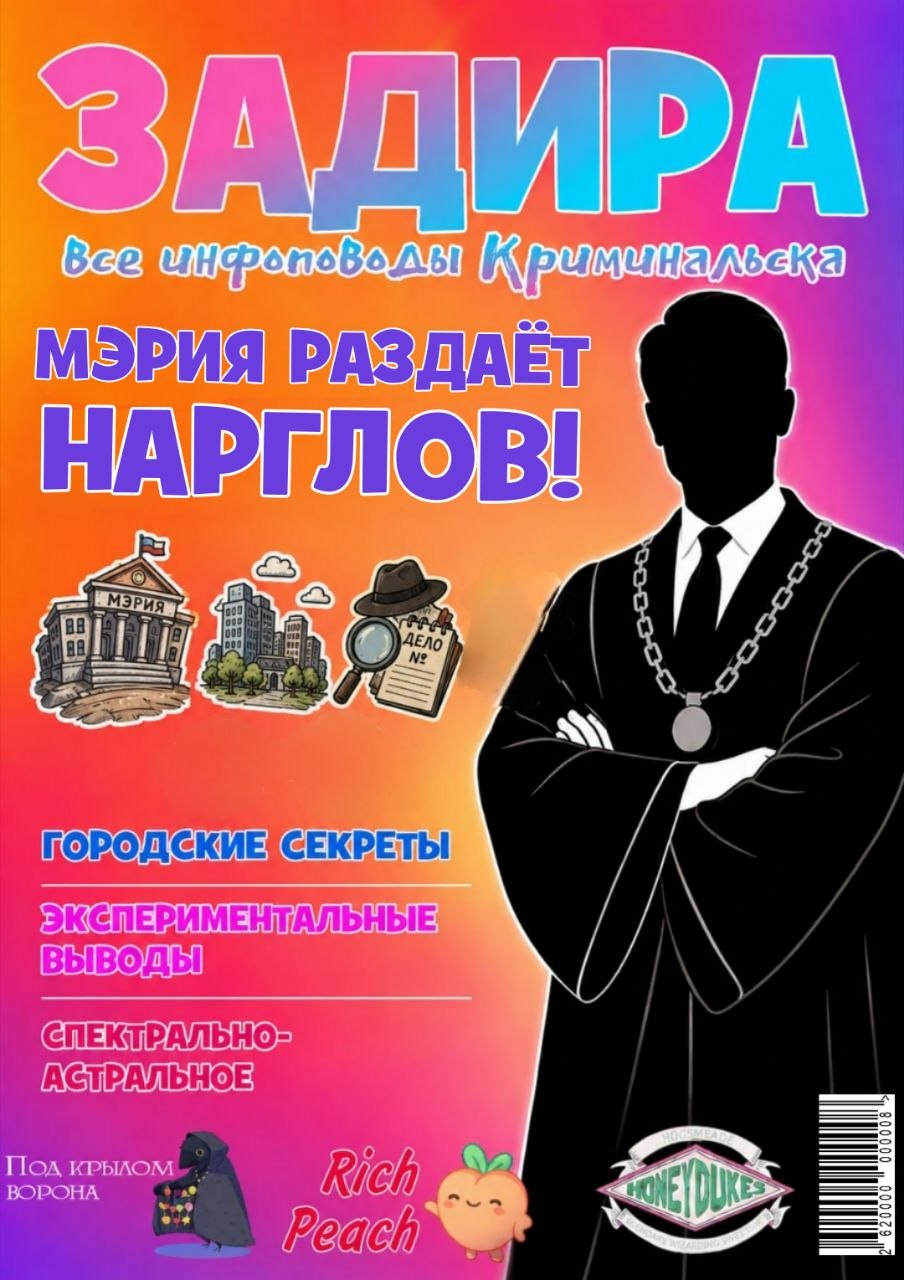
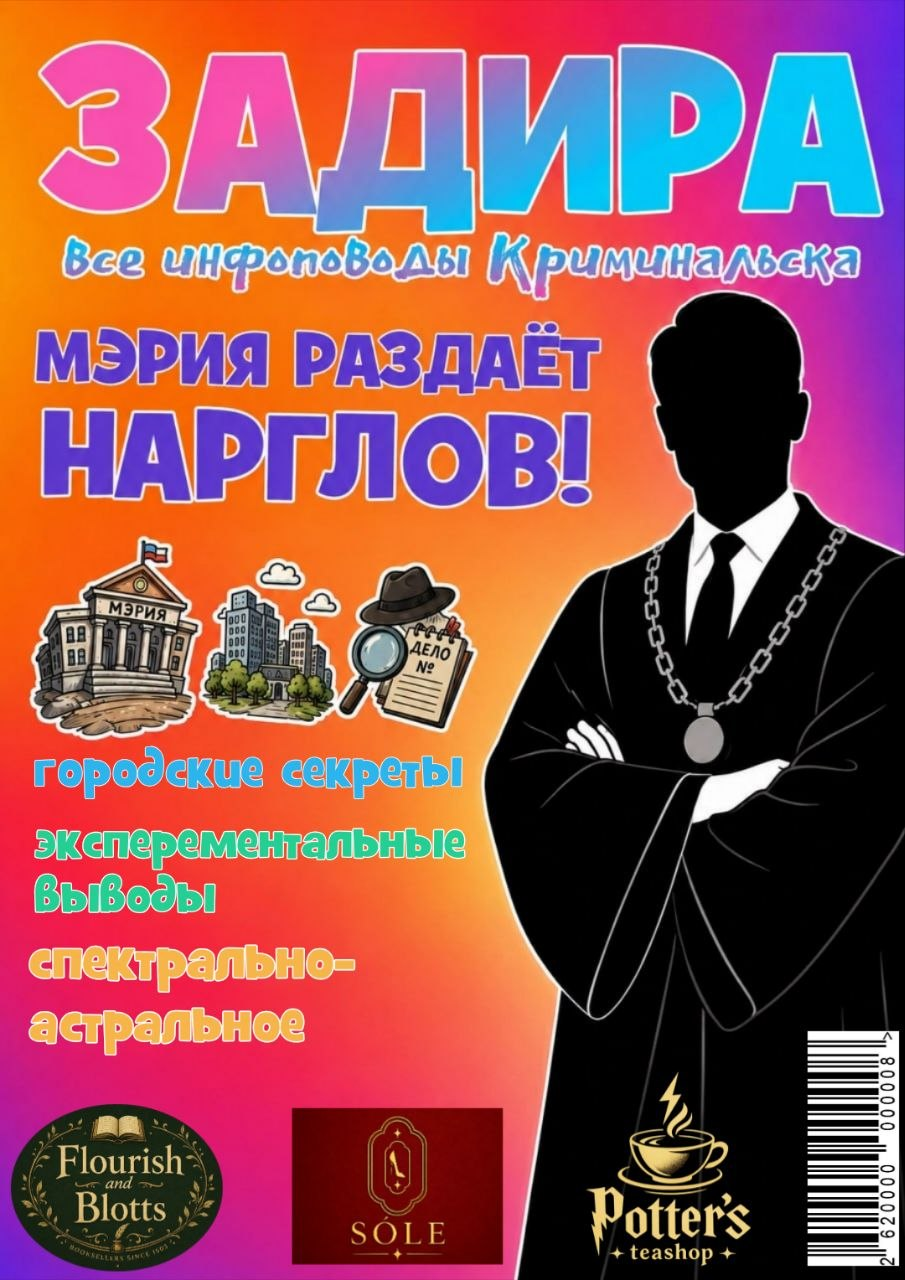
update

diff --git a/magazine2.html b/magazine2.html
@@ -65,29 +65,27 @@
       <div class="rubric-grid">
         <article class="rubric-card">
           <div class="rubric-label">Реклама</div>
-          <h3>Под крылом ворона</h3>
-          <p>Никто не любит, когда мафия берет "под крышу", но все любят, когда их берут "под крыло". Под Крылом Ворона - товары для хорошего настроения!          </p>
-          <a class="mag-pill-btn" href="https://hogsmeade.dhog.org/viewforum.php?f=85" target="_blank">В магазин</a>
+          <h3>Флориш и Блоттс</h3>
+          <p>Книга, возможно, не сделает вас умнее, но вы все равно сможете её обсудить. Флориш и Блоттс — главный поставщик книг в Магической Британии.          </p>
+          <a class="mag-pill-btn" href="https://hogsmeade.dhog.org/viewforum.php?f=108" target="_blank">В магазин</a>
 
         </article>
 
         <article class="rubric-card">
           <div class="rubric-label">Реклама</div>
-          <h3>Rich Peach</h3>
+          <h3>SÓLE</h3>
           <p>
-            Все ещё думаешь, что обрывать клумбы хорошая идея? Какая разница, что ты с экономил, если её любимый домовик плачет! Rich Peach - создаст идеальную композицию и ты снова 10/10!
-          </p>
-          <a class="mag-pill-btn" href="https://hogsmeade.dhog.org/viewforum.php?f=174" target="_blank">В магазин</a>
+           Здоровые ноги — одно из главных условий комфортной жизни. Мы же делаем их ещё и красивее. Sole — залог того, что вы будете крепко стоять на земле. Буквально.          </p>
+          <a class="mag-pill-btn" href="https://hogsmeade.dhog.org/viewforum.php?f=181" target="_blank">В магазин</a>
 
         </article>
 
         <article class="rubric-card">
           <div class="rubric-label">Реклама</div>
-          <h3>Сладкое королевство</h3>
+          <h3>Potter's teashop</h3>
           <p>
-           Сладкий стол на любое ваше мероприятие от Дня Рождения до похорон. Сладкое королевство - идеальный выбор для идеального вкуса.
-          </p>
-          <a class="mag-pill-btn" href="https://hogsmeade.dhog.org/viewforum.php?f=83" target="_blank">В магазин</a>
+         Даже самый холодный день может исправить чашка хорошего чая. Potter’s Teashope — купи себе настроение.          </p>
+          <a class="mag-pill-btn" href="https://hogsmeade.dhog.org/viewforum.php?f=110" target="_blank">В магазин</a>
 
         </article>
       </div>
